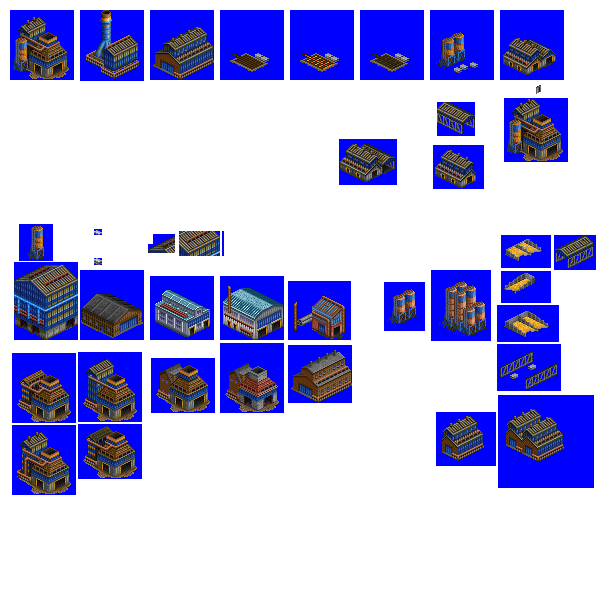
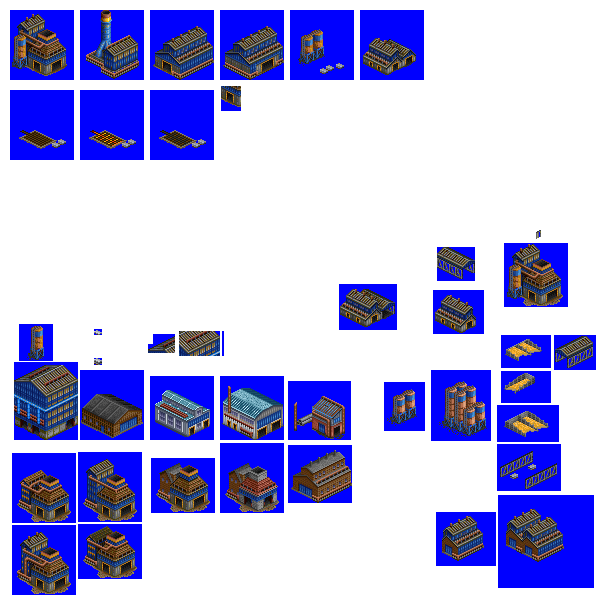
Change: objects for foundry

diff --git a/src/industries/foundry.py b/src/industries/foundry.py
@@ -82,16 +82,19 @@ spriteset_3 = industry.add_spriteset(
     sprites=[(150, 10, 64, 70, -31, -39)],
 )
 spriteset_4 = industry.add_spriteset(
-    sprites=[(430, 10, 64, 70, -31, -39)],
+    sprites=[(220, 10, 64, 70, -31, -39)],
 )
 spriteset_5 = industry.add_spriteset(
-    sprites=[(500, 10, 64, 70, -31, -39)],
+    sprites=[(290, 10, 64, 70, -31, -39)],
+)
+spriteset_6 = industry.add_spriteset(
+    sprites=[(360, 10, 64, 70, -31, -39)],
 )
 spriteset_iron_pigs_anim = industry.add_spriteset(
     sprites=[
-        (220, 10, 64, 70, -31, -39),
-        (290, 10, 64, 70, -31, -39),
-        (360, 10, 64, 70, -31, -39),
+        (10, 90, 64, 70, -31, -39),
+        (80, 90, 64, 70, -31, -39),
+        (150, 90, 64, 70, -31, -39),
     ],
     animation_rate=1,
 )
@@ -120,22 +123,7 @@ industry.add_spritelayout(
     building_sprites=[spriteset_1],
     smoke_sprites=[sprite_smoke],
     fences=["nw", "ne", "se", "sw"],
-)
-industry.add_spritelayout(
-    id="foundry_spritelayout_large_chimney",
-    tile="foundry_tile_1",
-    ground_sprite=spriteset_ground,
-    ground_overlay=spriteset_ground_overlay,
-    building_sprites=[spriteset_2],
-    fences=["nw", "ne", "se", "sw"],
-)
-industry.add_spritelayout(
-    id="foundry_spritelayout_large_shed",
-    tile="foundry_tile_1",
-    ground_sprite=spriteset_ground,
-    ground_overlay=spriteset_ground_overlay,
-    building_sprites=[spriteset_3],
-    fences=[],
+    add_to_object_num=1,
 )
 industry.add_spritelayout(
     id="foundry_spritelayout_iron_pigs_anim",
@@ -144,22 +132,52 @@ industry.add_spritelayout(
     ground_overlay=spriteset_ground_overlay_pigs,
     building_sprites=[spriteset_iron_pigs_anim],
     fences=["nw", "ne", "se", "sw"],
+    add_to_object_num=2,
+)
+industry.add_spritelayout(
+    id="foundry_spritelayout_large_chimney",
+    tile="foundry_tile_1",
+    ground_sprite=spriteset_ground,
+    ground_overlay=spriteset_ground_overlay,
+    building_sprites=[spriteset_2],
+    fences=["nw", "ne", "se", "sw"],
+    add_to_object_num=3,
+)
+industry.add_spritelayout(
+    id="foundry_spritelayout_large_shed",
+    tile="foundry_tile_1",
+    ground_sprite=spriteset_ground,
+    ground_overlay=spriteset_ground_overlay,
+    building_sprites=[spriteset_3],
+    fences=[],
+    add_to_object_num=4,
+)
+industry.add_spritelayout(
+    id="foundry_spritelayout_large_shed_alt",
+    tile="foundry_tile_1",
+    ground_sprite=spriteset_ground,
+    ground_overlay=spriteset_ground_overlay,
+    building_sprites=[spriteset_4],
+    fences=[],
+    add_to_object_num=5,
 )
 industry.add_spritelayout(
     id="foundry_spritelayout_silos",
     tile="foundry_tile_1",
     ground_sprite=spriteset_ground,
     ground_overlay=spriteset_ground_overlay,
-    building_sprites=[spriteset_4],
+    building_sprites=[spriteset_5],
     fences=[],
+    add_to_object_num=6,
 )
 industry.add_spritelayout(
     id="foundry_spritelayout_store_shed",
     tile="foundry_tile_1",
     ground_sprite=spriteset_ground,
     ground_overlay=spriteset_ground_overlay,
-    building_sprites=[spriteset_5],
+    building_sprites=[spriteset_6],
     fences=["nw", "ne"],
+    add_to_object_num=7,
 )
 industry.add_spritelayout(
     id="foundry_spritelayout_empty",
@@ -168,6 +186,7 @@ industry.add_spritelayout(
     ground_overlay=spriteset_ground_overlay,
     building_sprites=[],
     fences=[],
+    add_to_object_num=8,
 )
 
 # this industry needs outpost layout as there are lots of cargos
